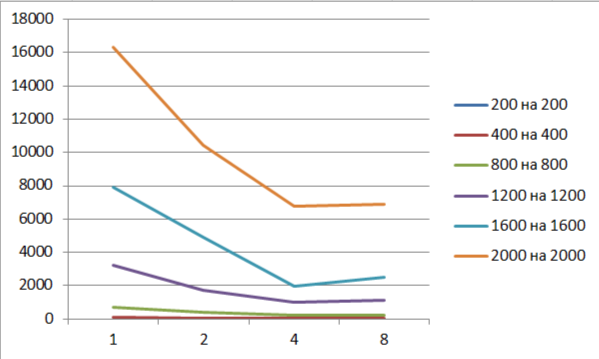
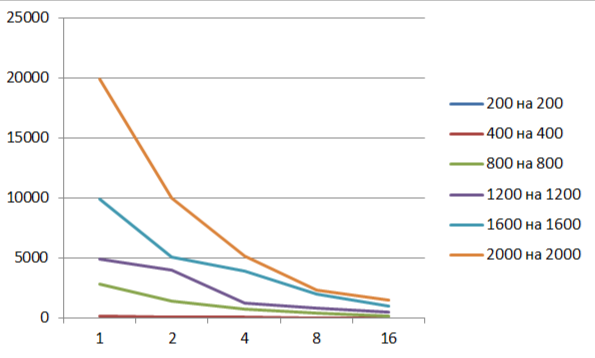
end lab5

diff --git a/README.md b/README.md
@@ -1,4 +1,4 @@
-# Отчёт по лабораторной работе № 3
+# Отчёт по лабораторной работе № 5
 
 **Выполнил:**
 Студент группы **6212-100503D**
@@ -8,24 +8,24 @@
 
 ## Задание
 
-Модифицировать программу из л/р №1 для параллельной работы по технологии MPI. Провести серию экспериментов с разным количеством потоков (1, 2, 4, 8 и т.д.), разными размерами матриц (примерно 200, 400, 800, 1200, 1600, 2000), с разным количеством вычислительных ядер (1, 2, 4, 8 и т.д.).
+Паралельную версию программы необходимо запустить на суперкомпьютере "Сергей Королев".Провести серию экспериментов с разным количеством потоков (1, 2, 4, 8 и т.д.), разными размерами матриц (примерно 200, 400, 800, 1200, 1600, 2000), с разным количеством вычислительных ядер (1, 2, 4, 8 и т.д.).
 
 ---
 
 ## Ход работы
 
-Метод умножения матриц был распаралелен с помощью библиотеки openmp. Были проведены эксперименты с матрицами разного 
+Распараллеленная программа с помощью технологии MPI была запущена на суперкомпьютере. Были проведены эксперименты с матрицами разного 
 размера(200,400,800,1200,1600,2000) и разным количеством потоков(1,2,4,8). Результаты в миллисекундах видны в таблице и на графиках:
 
 
-| Размер матрицы | 1 процесса | 2 процесса | 4 процесса  | 8  процессов |
-|:--------------:|-----------:|-----------:|------------:|-------------:|
-| 200            | 10         | 6          | 4           | 4            |
-| 400            | 81         | 49         | 35          | 28           |
-| 800            | 690        | 385        | 210         | 250          |
-| 1200           | 3200       | 1720       | 1020        | 1100         |
-| 1600           | 7933       | 4923       | 1950        | 2497         |
-| 2000           | 16345      | 10430      | 6750        | 6900         |
+| Размер матрицы | 1 процесса | 2 процесса | 4 процесса  | 8  процессов | 16 процессов |
+|:--------------:|-----------:|-----------:|------------:|-------------:|-------------:|
+| 200            | 13         | 8          | 4           | 2            | 1            |
+| 400            | 137        | 71         | 35          | 19           | 10           |
+| 800            | 2830       | 1420       | 700         | 393          | 140          |
+| 1200           | 4902       | 4000       | 1224        | 811          | 450          |
+| 1600           | 9934       | 5100       | 3902        | 2000         | 990          |
+| 2000           | 19900      | 10000      | 5190        | 2345         | 1500         |
 
 
 ![График](stat/1.png)
@@ -35,7 +35,7 @@
 
 ## Вывод
 
-С помощью технологии MPI я распаралелил процесс перемножения матриц и провел исследование как меняется 
+С помощью технологии MPI я распаралелил процесс перемножения матриц и запустил программу на суперкомпьютере, а также провел исследование как меняется 
 скорость выполенения в зависимости от количества потоков и размера матрицы.
 
 ---
